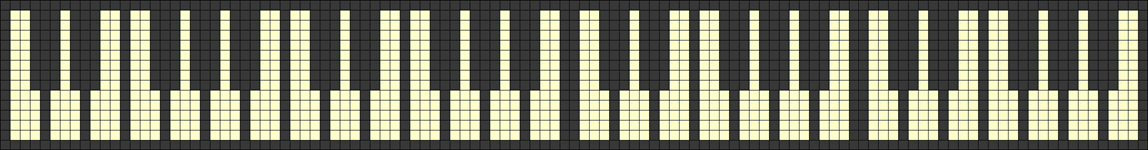
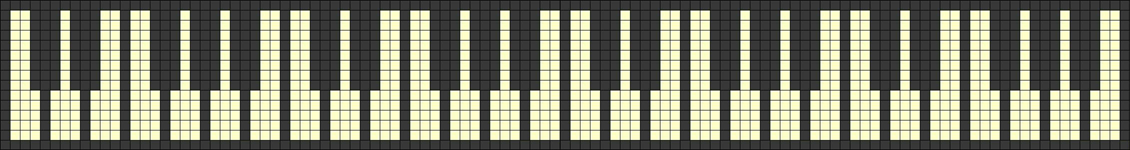
_

Changed region(s): [[0.031, 0.0533, 0.4956, 0.9333], [0.5265, 0.0533, 0.9912, 0.9333]]

diff --git a/index.html b/index.html
@@ -89,13 +89,13 @@
         <div class="column" style="flex: 3;">
 
           <div class="music fancy-box" style="flex: 1;"> 
-            Music
+            Music recc or current top somehtign lie that here
           </div>
 
           <div class="row" style="flex: 12;">
 
             <div class="dynamic-art fancy-box" style="flex: 2;"> 
-              Big Dynamic Art 
+              Big Dynamic Art, rotates between daays
             </div>
 
             <div class="column" style="flex: 1;"> 
